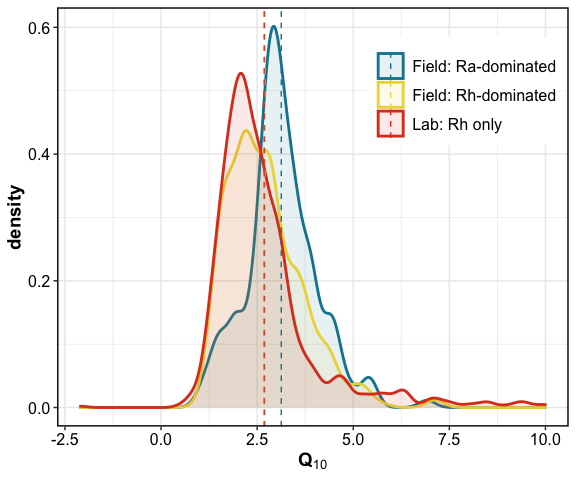
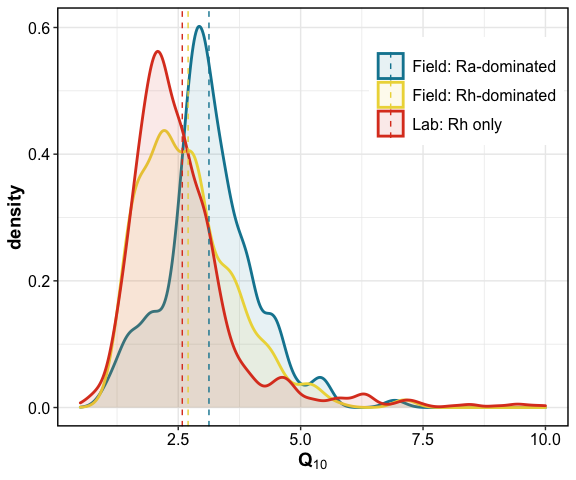
new code for world map - geom_map

diff --git a/reports/2-data_analysis.md b/reports/2-data_analysis.md
@@ -202,28 +202,24 @@ ranges of 10 C.
 | NA             | field      |  2.250000 |    2 |
 | NA             | lab        |  2.821486 |  175 |
 
-#### 5. Grouping by Ecosystem type
+#### 5. Grouping by Measurement type
 
 ![](2-data_analysis_files/figure-gfm/unnamed-chunk-11-1.png)<!-- -->
 
-| Meas_method              | Incubation |     mean |    n |
-|:-------------------------|:-----------|---------:|-----:|
-| Alkali absorption        | field      | 2.506006 |  348 |
-| Alkali absorption        | lab        | 3.827094 |  234 |
-| BaPS                     | lab        | 5.350000 |    4 |
-| Gas chromatography       | field      | 2.519280 |  361 |
-| Gas chromatography       | lab        | 2.841552 |  232 |
-| Gradient                 | field      | 2.404545 |   33 |
-| IRGA                     | field      | 3.149966 | 4101 |
-| IRGA                     | lab        | 5.730942 |  393 |
-| IRMS                     | lab        | 2.000000 |    1 |
-| oxygen microcompensation | lab        | 1.915000 |    2 |
-| respirometer             | lab        | 3.000000 |    1 |
-| TDLAS                    | lab        | 2.386250 |    8 |
-| unknown                  | lab        | 2.759318 |   88 |
-| Unknown                  | field      | 2.508000 |   15 |
-| NA                       | field      | 2.040000 |    1 |
-| NA                       | lab        | 2.686591 |   44 |
+| Meas_method              |     mean |    n |
+|:-------------------------|---------:|-----:|
+| Alkali absorption        | 3.037165 |  582 |
+| BaPS                     | 5.350000 |    4 |
+| Gas chromatography       | 2.645363 |  593 |
+| Gradient                 | 2.404545 |   33 |
+| IRGA                     | 3.375672 | 4494 |
+| IRMS                     | 2.000000 |    1 |
+| oxygen microcompensation | 1.915000 |    2 |
+| respirometer             | 3.000000 |    1 |
+| TDLAS                    | 2.386250 |    8 |
+| unknown                  | 2.759318 |   88 |
+| Unknown                  | 2.508000 |   15 |
+| NA                       | 2.672222 |   45 |
 
 ### 5. Subsetting by temperature range
 
@@ -282,7 +278,7 @@ snow biomes only.
     #>   <chr>               <dbl> <int>
     #> 1 Field: Ra-dominated  3.13   167
     #> 2 Field: Rh-dominated  2.70   581
-    #> 3 Lab: Rh only         2.68  1109
+    #> 3 Lab: Rh only         2.58   989
 
 ![](2-data_analysis_files/figure-gfm/co2_rh-1.png)<!-- -->
 
@@ -290,9 +286,11 @@ snow biomes only.
 
 <!-- -->
 
-    #>               Df Sum Sq Mean Sq F value Pr(>F)
-    #> Rh_group       1    0.1  0.1314   0.084  0.772
-    #> Residuals   1688 2650.0  1.5699
+    #>               Df Sum Sq Mean Sq F value Pr(>F)  
+    #> Rh_group       1    5.2   5.184   4.251 0.0394 *
+    #> Residuals   1568 1912.0   1.219                 
+    #> ---
+    #> Signif. codes:  0 '***' 0.001 '**' 0.01 '*' 0.05 '.' 0.1 ' ' 1
 
 -   How did field Rh vs. field Ra compare?
 
@@ -303,6 +301,19 @@ snow biomes only.
     #> Residuals   746  712.3   0.955                     
     #> ---
     #> Signif. codes:  0 '***' 0.001 '**' 0.01 '*' 0.05 '.' 0.1 ' ' 1
+    #> # A tibble: 9 × 5
+    #> # Groups:   Species [1]
+    #>   Species name    `Field: Ra-dominated` `Field: Rh-dominated` `Lab: Rh only`
+    #>   <fct>   <chr>                   <dbl>                 <dbl>          <dbl>
+    #> 1 CO2     n                      167                   581            989   
+    #> 2 CO2     mean                     3.13                  2.70           2.58
+    #> 3 CO2     median                   3.06                  2.56           2.33
+    #> 4 CO2     perc_01                  1.17                  1.3            1   
+    #> 5 CO2     perc_25                  2.66                  2              1.9 
+    #> 6 CO2     perc_75                  3.53                  3.22           2.94
+    #> 7 CO2     perc_99                  5.42                  5.39           7.30
+    #> 8 CO2     min                      1.04                  1.02           0.5 
+    #> 9 CO2     max                      6.92                  7.12          10
 
 ------------------------------------------------------------------------
 
@@ -341,28 +352,32 @@ Date run: 2022-08-24
     #> [1] stats     graphics  grDevices utils     datasets  methods   base     
     #> 
     #> other attached packages:
-    #>  [1] patchwork_1.1.1         googlesheets4_1.0.0     data.table_1.14.2       sidb_1.0.0              sf_1.0-7               
-    #>  [6] rnaturalearthdata_0.1.0 rnaturalearth_0.1.0     nlme_3.1-157            drake_7.13.3            forcats_0.5.1          
-    #> [11] stringr_1.4.0           dplyr_1.0.9             purrr_0.3.4             readr_2.1.2             tidyr_1.2.0            
-    #> [16] tibble_3.1.8            ggplot2_3.3.6           tidyverse_1.3.2        
+    #>  [1] patchwork_1.1.1         googlesheets4_1.0.0     data.table_1.14.2       sidb_1.0.0             
+    #>  [5] sf_1.0-7                rnaturalearthdata_0.1.0 rnaturalearth_0.1.0     nlme_3.1-157           
+    #>  [9] drake_7.13.3            forcats_0.5.1           stringr_1.4.0           dplyr_1.0.9            
+    #> [13] purrr_0.3.4             readr_2.1.2             tidyr_1.2.0             tibble_3.1.8           
+    #> [17] ggplot2_3.3.6           tidyverse_1.3.2        
     #> 
     #> loaded via a namespace (and not attached):
-    #>  [1] googledrive_2.0.0    minqa_1.2.4          colorspace_2.0-3     ellipsis_0.3.2       class_7.3-20         fs_1.5.2            
-    #>  [7] rstudioapi_0.13      proxy_0.4-27         farver_2.1.1         soilpalettes_0.1.0   bit64_4.0.5          fansi_1.0.3         
-    #> [13] lubridate_1.8.0      xml2_1.3.3           splines_4.2.1        rootSolve_1.8.2.3    knitr_1.39           jsonlite_1.8.0      
-    #> [19] broom_1.0.0          dbplyr_2.2.1         ggdist_3.2.0         compiler_4.2.1       httr_1.4.3           backports_1.4.1     
-    #> [25] Matrix_1.4-1         assertthat_0.2.1     fastmap_1.1.0        gargle_1.2.0         cli_3.3.0            s2_1.1.0            
-    #> [31] htmltools_0.5.3      prettyunits_1.1.1    tools_4.2.1          igraph_1.3.4         coda_0.19-4          gtable_0.3.0        
-    #> [37] glue_1.6.2           wk_0.6.0             rappdirs_0.3.3       Rcpp_1.0.9           cellranger_1.1.0     vctrs_0.4.1         
-    #> [43] xfun_0.31            rvest_1.0.2          lifecycle_1.0.1      MASS_7.3-57          scales_1.2.0         vroom_1.5.7         
-    #> [49] hms_1.1.1            parallel_4.2.1       yaml_2.3.5           curl_4.3.2           stringi_1.7.8        highr_0.9           
-    #> [55] e1071_1.7-11         PNWColors_0.1.0      measurements_1.4.0   filelock_1.0.2       FME_1.3.6.2          storr_1.2.5         
-    #> [61] rlang_1.0.4          pkgconfig_2.0.3      distributional_0.3.0 evaluate_0.15        lattice_0.20-45      labeling_0.4.2      
-    #> [67] bit_4.0.4            tidyselect_1.1.2     deSolve_1.33         magrittr_2.0.3       R6_2.5.1             generics_0.1.3      
-    #> [73] base64url_1.4        txtq_0.2.4           DBI_1.1.3            pillar_1.8.0         haven_2.5.0          withr_2.5.0         
-    #> [79] mgcv_1.8-40          units_0.8-0          sp_1.5-0             modelr_0.1.8         crayon_1.5.1         KernSmooth_2.23-20  
-    #> [85] utf8_1.2.2           tzdb_0.3.0           rmarkdown_2.14       progress_1.2.2       grid_4.2.1           readxl_1.4.0        
-    #> [91] minpack.lm_1.2-2     reprex_2.0.1         digest_0.6.29        classInt_0.4-7       openssl_2.0.2        munsell_0.5.0       
-    #> [97] viridisLite_0.4.0    askpass_1.1
+    #>  [1] googledrive_2.0.0    minqa_1.2.4          colorspace_2.0-3     ellipsis_0.3.2       class_7.3-20        
+    #>  [6] fs_1.5.2             rstudioapi_0.13      proxy_0.4-27         farver_2.1.1         soilpalettes_0.1.0  
+    #> [11] bit64_4.0.5          fansi_1.0.3          lubridate_1.8.0      xml2_1.3.3           splines_4.2.1       
+    #> [16] rootSolve_1.8.2.3    knitr_1.39           jsonlite_1.8.0       broom_1.0.0          dbplyr_2.2.1        
+    #> [21] ggdist_3.2.0         compiler_4.2.1       httr_1.4.3           backports_1.4.1      Matrix_1.4-1        
+    #> [26] assertthat_0.2.1     fastmap_1.1.0        gargle_1.2.0         cli_3.3.0            s2_1.1.0            
+    #> [31] htmltools_0.5.3      prettyunits_1.1.1    tools_4.2.1          igraph_1.3.4         coda_0.19-4         
+    #> [36] gtable_0.3.0         glue_1.6.2           maps_3.4.0           wk_0.6.0             rappdirs_0.3.3      
+    #> [41] Rcpp_1.0.9           cellranger_1.1.0     vctrs_0.4.1          xfun_0.31            rvest_1.0.2         
+    #> [46] lifecycle_1.0.1      MASS_7.3-57          scales_1.2.0         vroom_1.5.7          hms_1.1.1           
+    #> [51] parallel_4.2.1       yaml_2.3.5           curl_4.3.2           stringi_1.7.8        highr_0.9           
+    #> [56] e1071_1.7-11         PNWColors_0.1.0      measurements_1.4.0   filelock_1.0.2       FME_1.3.6.2         
+    #> [61] storr_1.2.5          rlang_1.0.4          pkgconfig_2.0.3      distributional_0.3.0 evaluate_0.15       
+    #> [66] lattice_0.20-45      labeling_0.4.2       bit_4.0.4            tidyselect_1.1.2     deSolve_1.33        
+    #> [71] magrittr_2.0.3       R6_2.5.1             generics_0.1.3       base64url_1.4        txtq_0.2.4          
+    #> [76] DBI_1.1.3            pillar_1.8.0         haven_2.5.0          withr_2.5.0          mgcv_1.8-40         
+    #> [81] units_0.8-0          sp_1.5-0             modelr_0.1.8         crayon_1.5.1         KernSmooth_2.23-20  
+    #> [86] utf8_1.2.2           tzdb_0.3.0           rmarkdown_2.14       progress_1.2.2       grid_4.2.1          
+    #> [91] readxl_1.4.0         minpack.lm_1.2-2     reprex_2.0.1         digest_0.6.29        classInt_0.4-7      
+    #> [96] openssl_2.0.2        munsell_0.5.0        viridisLite_0.4.0    askpass_1.1
 
 </details>
